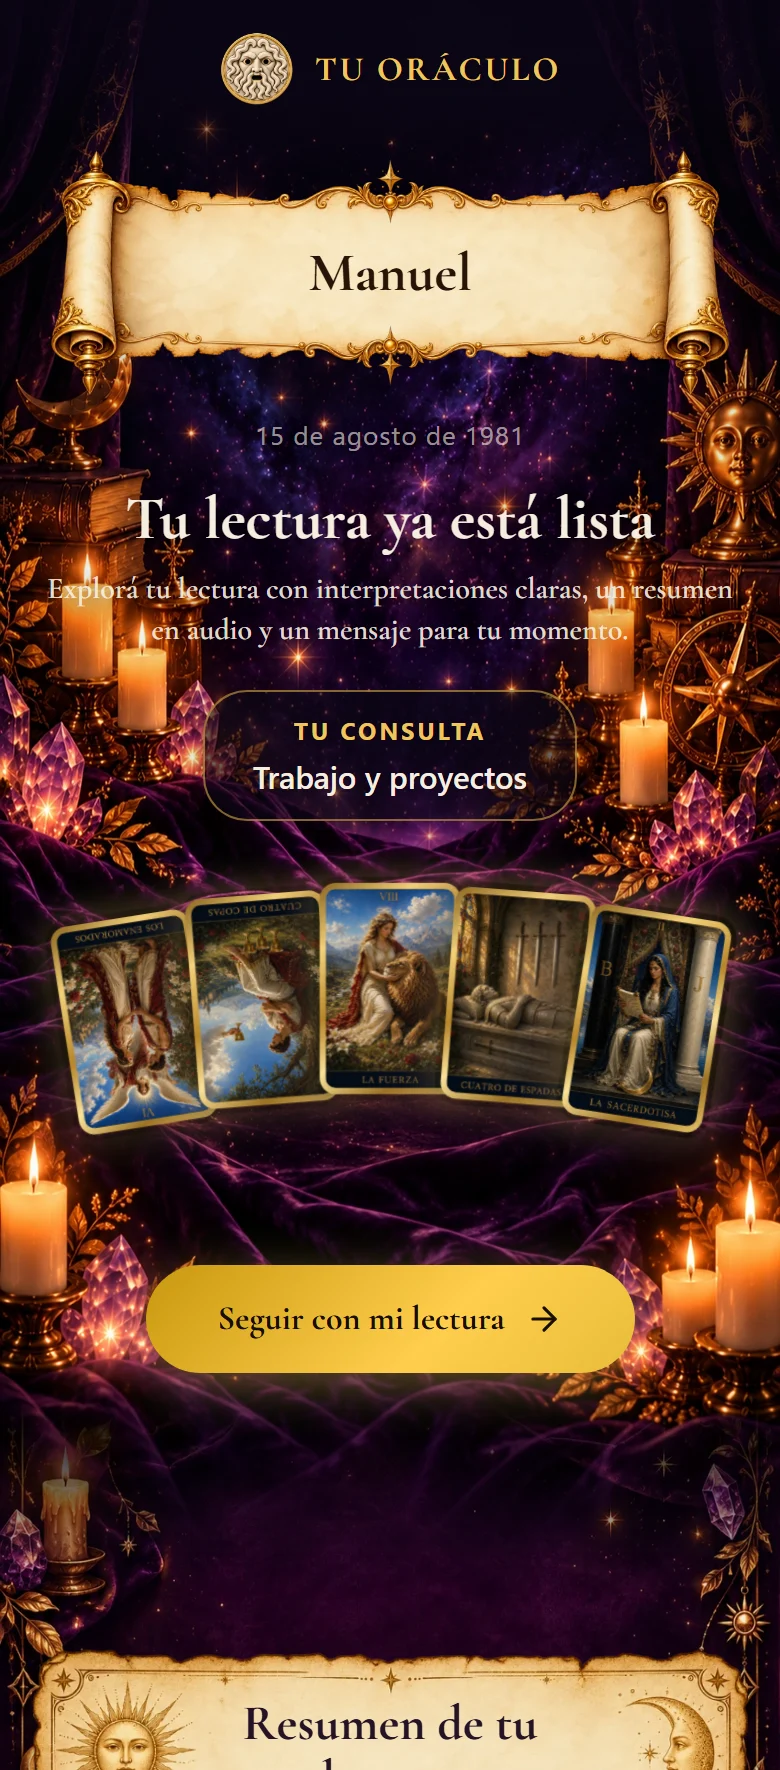
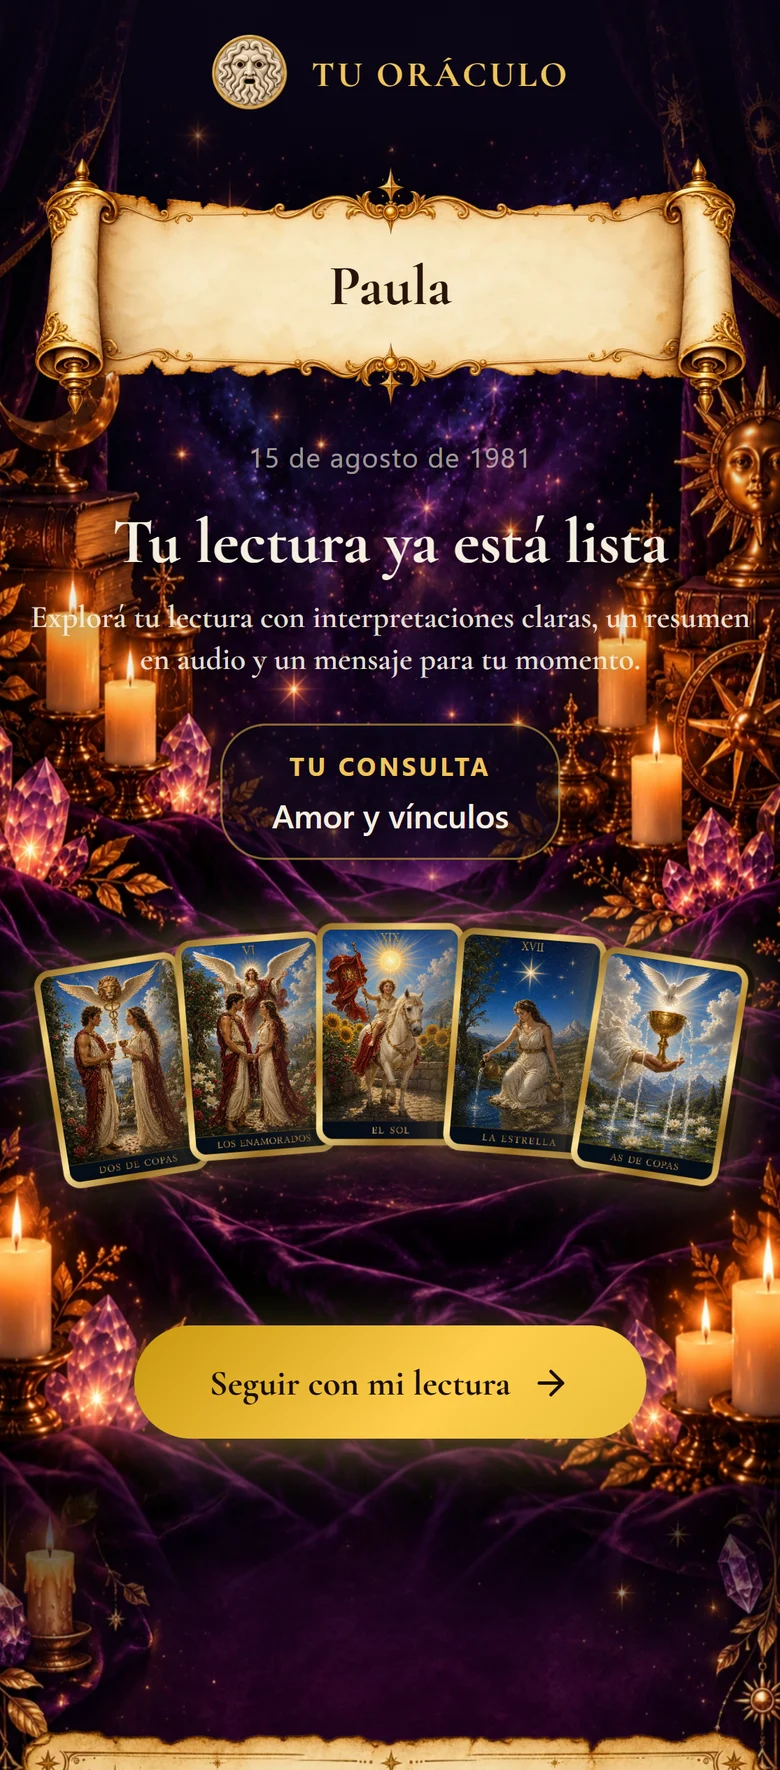
Landing /tarot: "Así vivís la experiencia" con la estética nueva
- Lectura online: captura real de la lectura demo "Paula" (cartas positivas).
- Resumen en audio: pergamino con auriculares y el panel real sonando,
  en lugar del reproductor genérico.
- PDF: las 3 páginas reales del PDF premium-v1 en abanico (antes, la
  portada vieja "Tirada para Valentina"); pdf-pagina1.webp actualizado.

diff --git a/components/tarot/AsiSeViveTarot.tsx b/components/tarot/AsiSeViveTarot.tsx
@@ -14,12 +14,13 @@ const DIR = "/img/tarot/contenedores/asi-se-vive";
 type CargaImg = ReturnType<typeof fijo>;
 const IMG = {
   separador: `${DIR}/separador_inicial.webp`,
-  // Captura REAL de /lectura (mobile 390px @2x, cartas reveladas,
-  // 2026-10-18), recortada a la proporción de la pantalla de telefono.webp.
+  // Captura REAL de /lectura (mobile 390px @3x) de la lectura demo "Paula"
+  // (2026-10-22), recortada a la proporción de la pantalla de telefono.webp.
+  // Las cartas se cambiaron solo en la captura por cartas positivas del mazo
+  // propio (decisión de Manuel para piezas públicas).
   pantallaLecturaReal: `${DIR}/pantalla-lectura-real.webp`,
   ilustracionAudio: `${DIR}/ilustracion-audio.webp`,
-  // ilustracion-mensaje-pdf.webp nunca se subió (daba 404 y caía al mock):
-  // ya no se pide, se muestra directamente el mock (mismo resultado visual).
+  ilustracionPdf: `${DIR}/ilustracion-pdf.webp`,
   iconoLectura: `${DIR}/icono-lectura-online.webp`,
   iconoAudio: `${DIR}/icono-audio.webp`,
   iconoPdf: `${DIR}/icono-pdf.webp`,
@@ -96,8 +97,8 @@ function Ilustracion({ src, fallback }: { src: string; fallback: ReactNode }) {
     <div className="w-full mt-auto flex items-center justify-center md:h-[230px]">
       <ImagenConFallback
         src={src}
-        // ilustracion-audio.webp es 640×360 y se pinta a ≤340 px de ancho
-        carga={fluido(src, 640, 360, "(max-width: 767px) 340px, 260px")}
+        // ilustracion-audio.webp es 960×614 (pergamino + panel real sonando, 2026-10-22) y se pinta a ≤340 px de ancho
+        carga={fluido(src, 960, 614, "(max-width: 767px) 340px, 260px")}
         style={{ display: "block", width: "auto", height: "auto", maxWidth: "100%", maxHeight: 230 }}
         fallback={
           <div className="relative w-full h-full flex items-center justify-center" style={{ minHeight: 200 }}>
@@ -210,12 +211,22 @@ const BLOQUES: Bloque[] = [
     Icon: FileText,
     t: "Mensaje personal, claves y tu PDF",
     d: "Además de la interpretación de tus cartas, recibís un mensaje personal y 3 claves para avanzar. También podés descargar tu PDF completo para conservar tu lectura.",
-    // Igual que el respaldo que mostraba Ilustracion (la imagen no existe).
+    // Las 3 páginas REALES del PDF (lectura demo "Paula", cartas positivas)
+    // en abanico abierto hacia arriba (2026-10-22). Si el archivo faltara,
+    // vuelve al mock de una hoja.
     ilustracion: (
       <div className="w-full mt-auto flex items-center justify-center md:h-[230px]">
-        <div className="relative w-full h-full flex items-center justify-center" style={{ minHeight: 200 }}>
-          <DocumentoMock alt="Tu lectura en PDF: la página con tus cinco cartas" style={{ width: "42%" }} />
-        </div>
+        <ImagenConFallback
+          src={IMG.ilustracionPdf}
+          alt="Tu lectura en PDF: portada con tus cinco cartas, la lectura carta por carta y el mensaje final"
+          carga={fluido(IMG.ilustracionPdf, 760, 701, "(max-width: 767px) 300px, 250px")}
+          style={{ display: "block", width: "auto", height: "auto", maxWidth: "100%", maxHeight: 230 }}
+          fallback={
+            <div className="relative w-full h-full flex items-center justify-center" style={{ minHeight: 200 }}>
+              <DocumentoMock alt="Tu lectura en PDF: la página con tus cinco cartas" style={{ width: "42%" }} />
+            </div>
+          }
+        />
       </div>
     ),
     boton: <BotonVisual Icon={Download}>Ver / descargar PDF</BotonVisual>,
